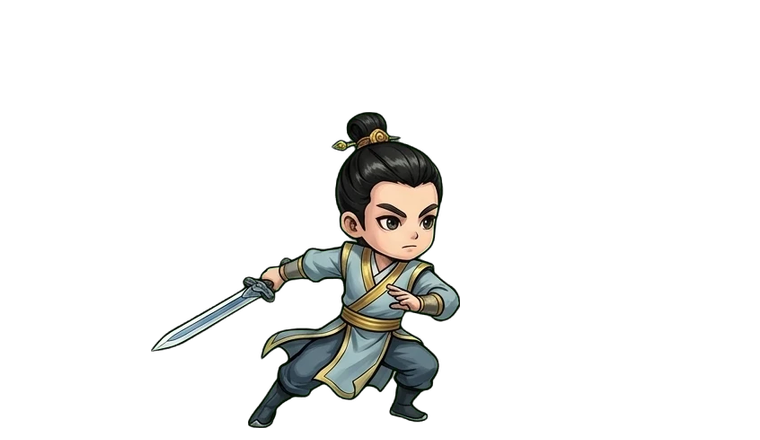
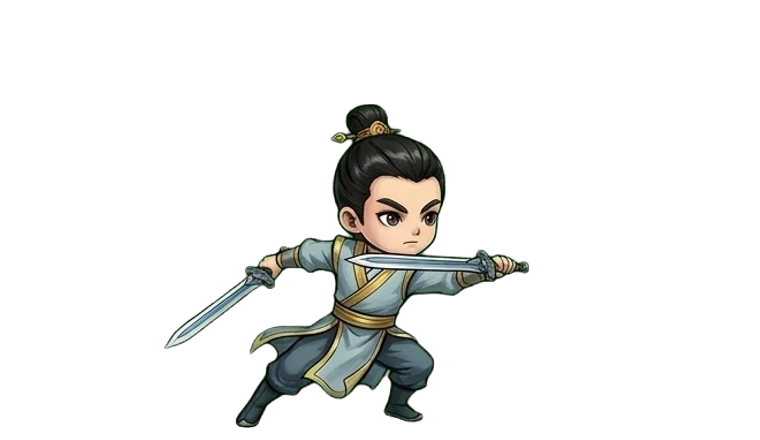
Hoạt ảnh chém Kiếm Tu bản mới: kiếm không còn bị cụt ở tư thế chờ, vệt sáng theo mũi kiếm mới

Changed region(s): [[0.1816, 0.2364, 0.6961, 0.975]]

diff --git a/src/pixi/CultivatorScene.js b/src/pixi/CultivatorScene.js
@@ -30,7 +30,7 @@ const ATK_FPS = 18
 const ATK_START = 1 // bắt đầu từ khung thứ 2: sự kiện trúng đòn tới cùng lúc nên đòn phải chạm đích sớm (khung 4)
 const ATK_FRAME = { w: 760, h: 440, feet: 428, charH: 330 }
 // Mũi kiếm ở từng khung (toạ độ trong khung 760x440; null = không dùng): vệt sáng đi theo mũi kiếm từ khung 2 tới khung 5
-const HERO_ATK_TIP = { kiem: [null, [243, 276], [151, 350], [642, 244], [621, 221]] }
+const HERO_ATK_TIP = { kiem: [null, [121, 352], [345, 260], [637, 270], [602, 217]] }
 const TRAIL_LIFE = 0.28 // giây một điểm của vệt sáng sống
 const HERO_HEIGHT = { sword: 175, meditate: 125 } // chiều cao hiển thị (đơn vị nhân vật)
 
